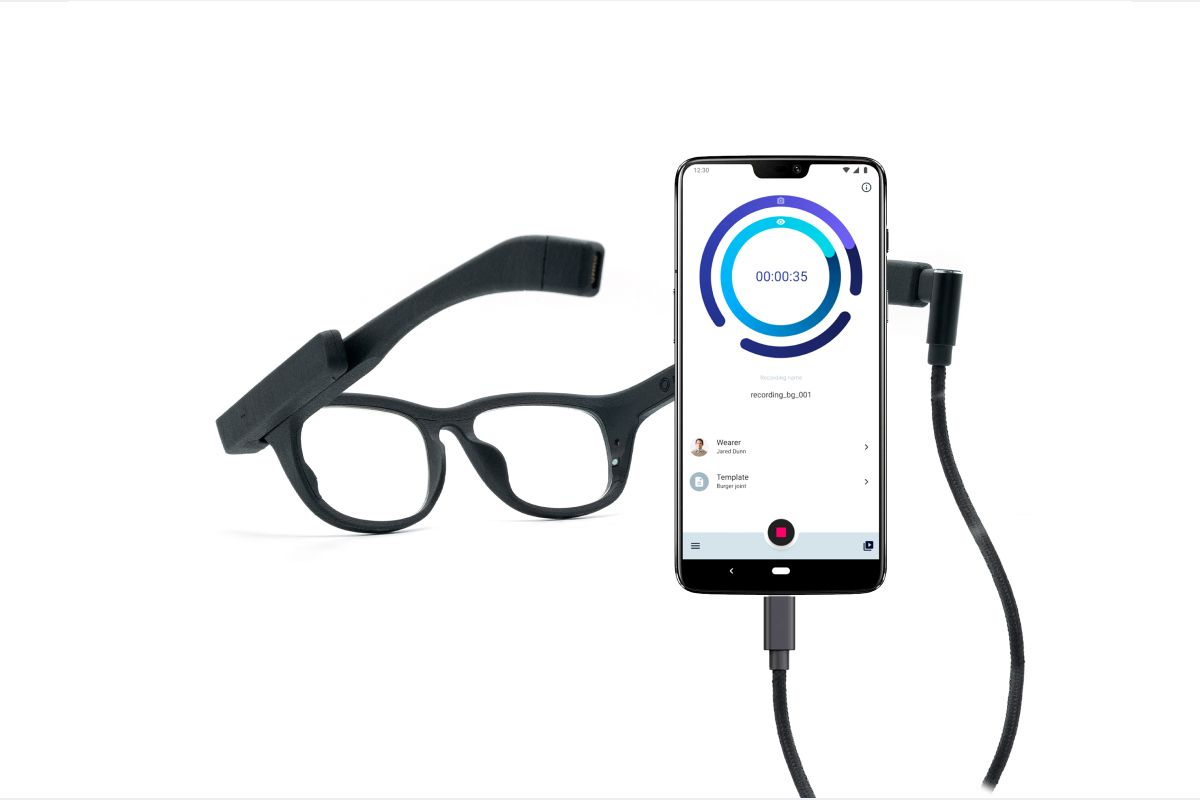
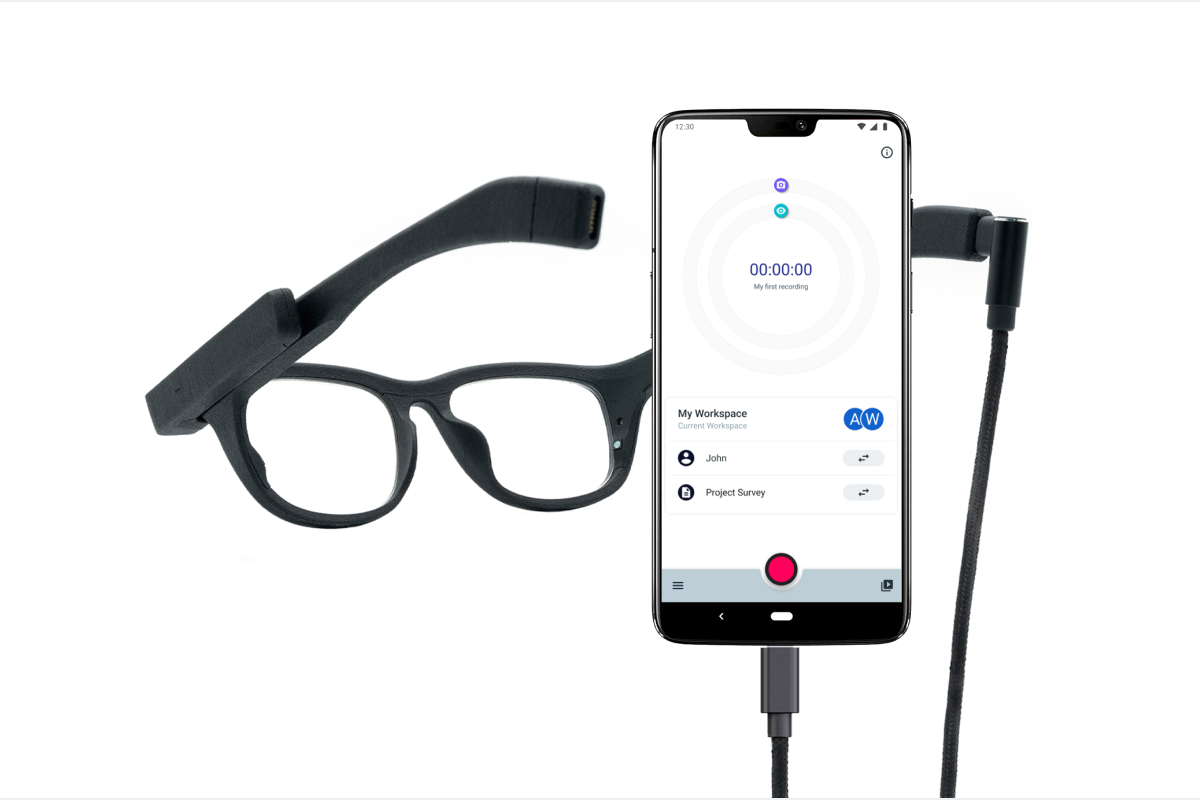
Updated google play, PI glasses and app images.

Changed region(s): [[0.1233, 0.125, 0.8633, 1.0]]

diff --git a/src/invisible/getting-started/first-recording.md b/src/invisible/getting-started/first-recording.md
@@ -26,14 +26,14 @@ Next, you have to install the Pupil Invisible Companion app on your device:
 
 <div class="pb-4" style="display:grid;grid-template-columns:1fr 1fr;gap:40px;">
   <v-img
-    :src="require('../../media/invisible/getting-started/google-play-logo.png')"
-    style="width:100%;"
+    :src="require('../../media/invisible/getting-started/google-play-badge.png')"
+    style="width:80%;"
     contain
   >
   </v-img>
   <v-img
-    :src="require('../../media/invisible/getting-started/pic-play-store.jpg')"
-    style="width:100%;"
+    :src="require('../../media/invisible/getting-started/companion_app_logo.jpg')"
+    style="width:80%;"
     contain
   >
   </v-img>
